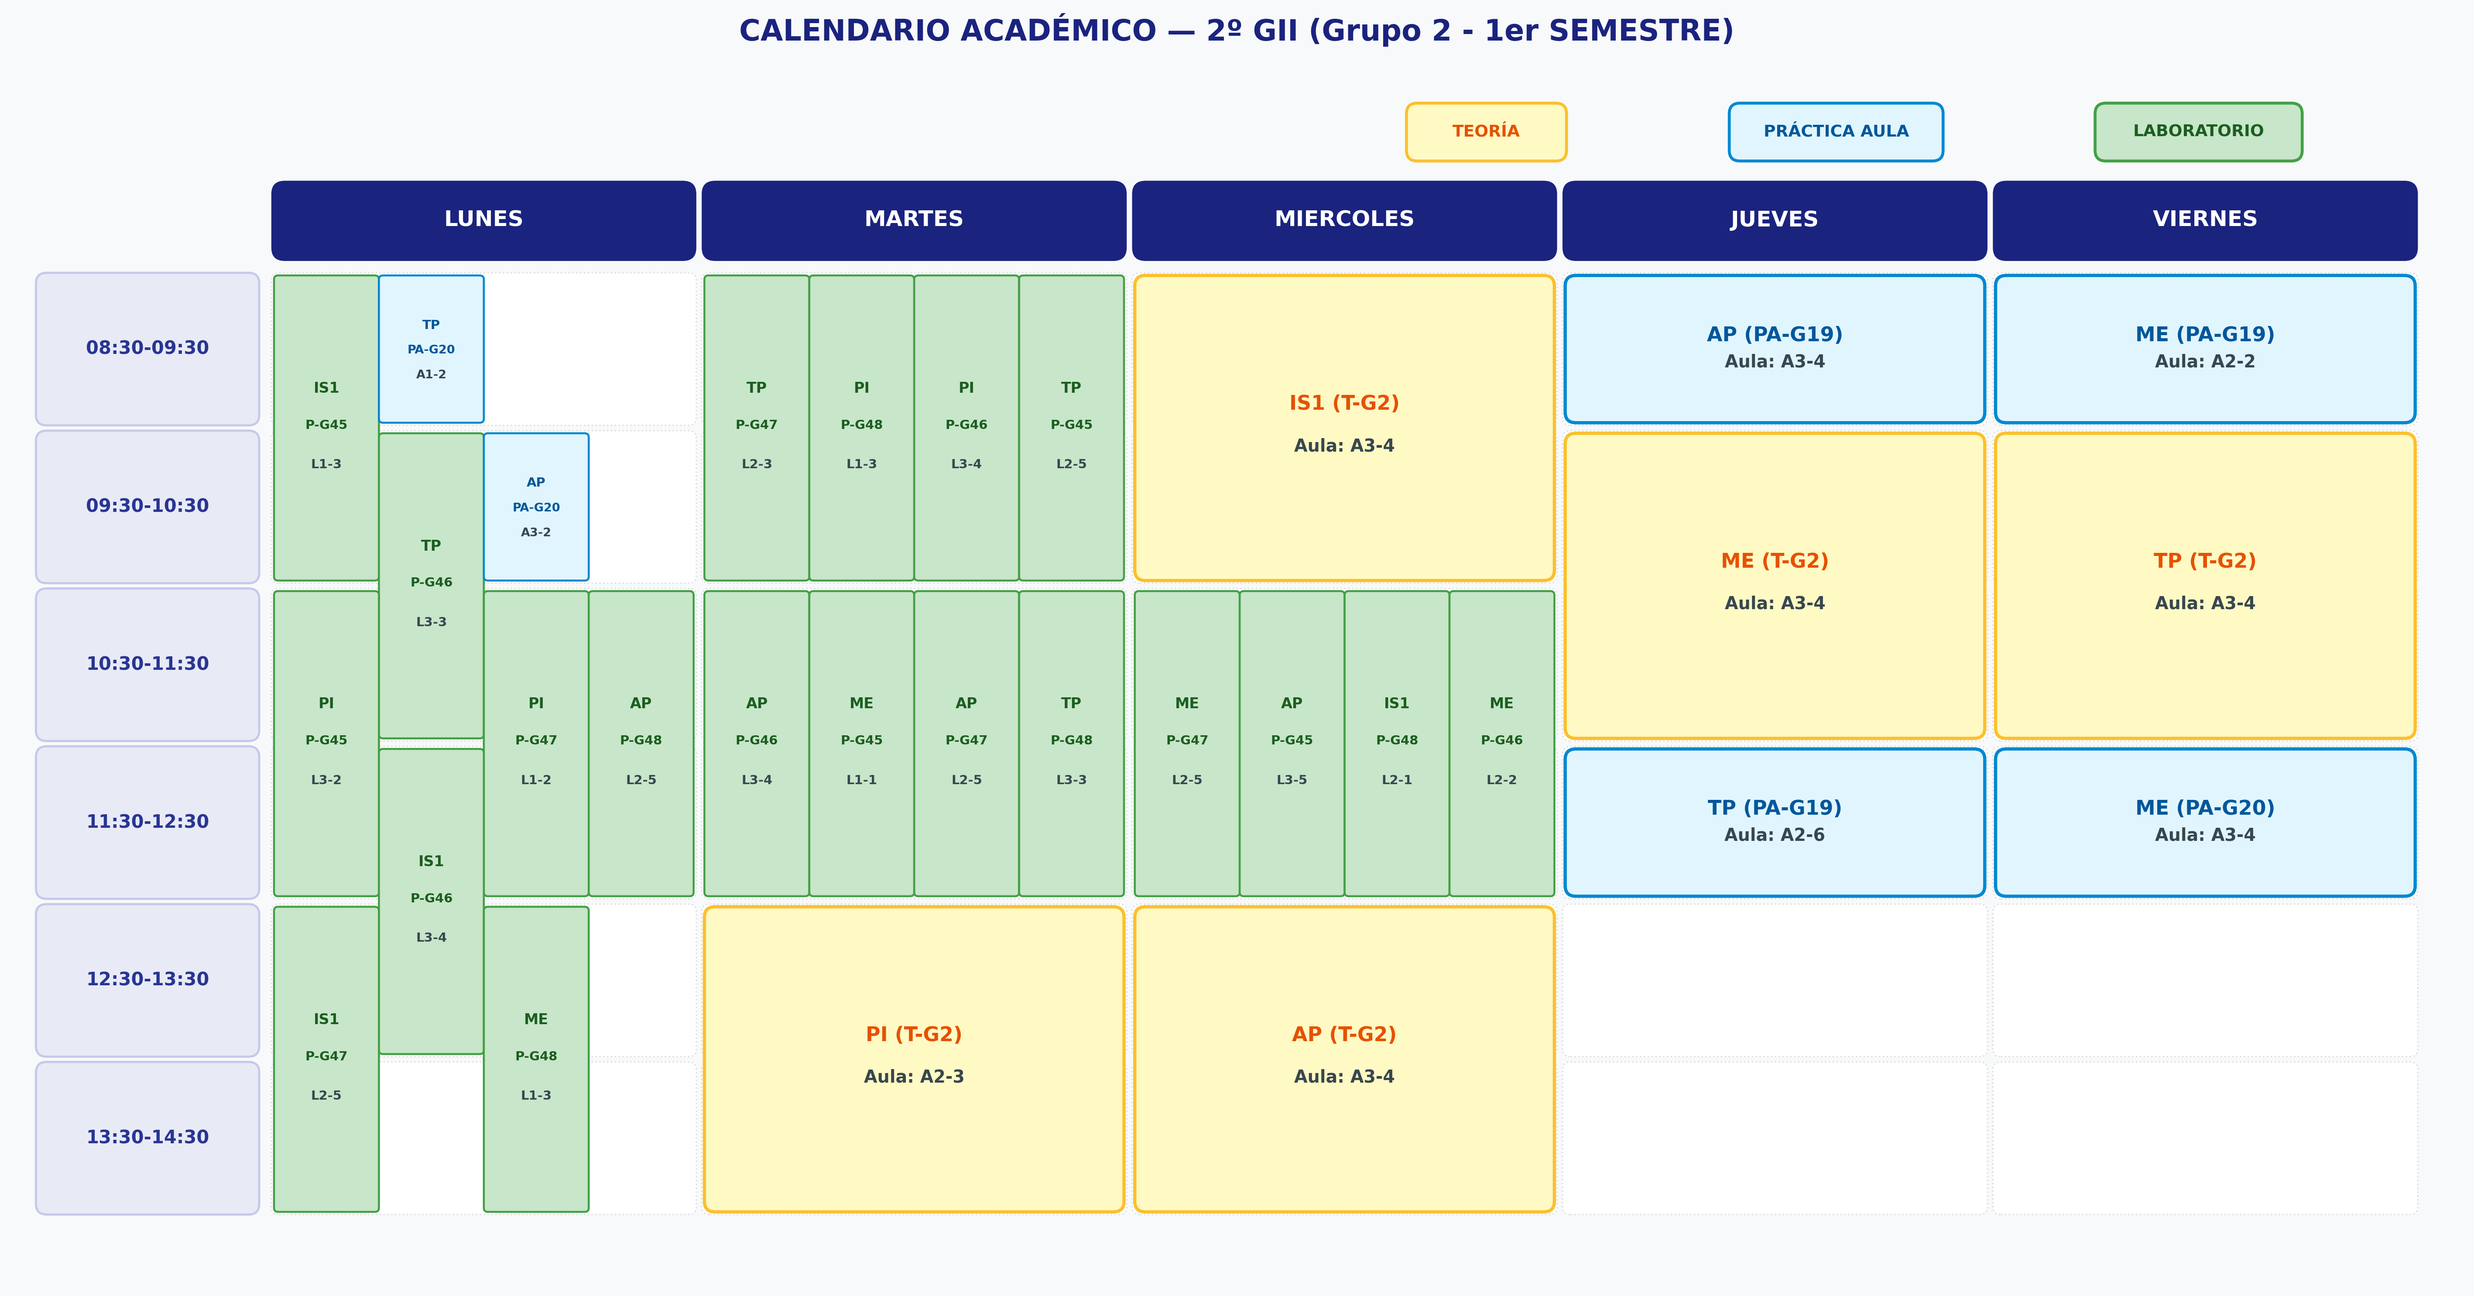
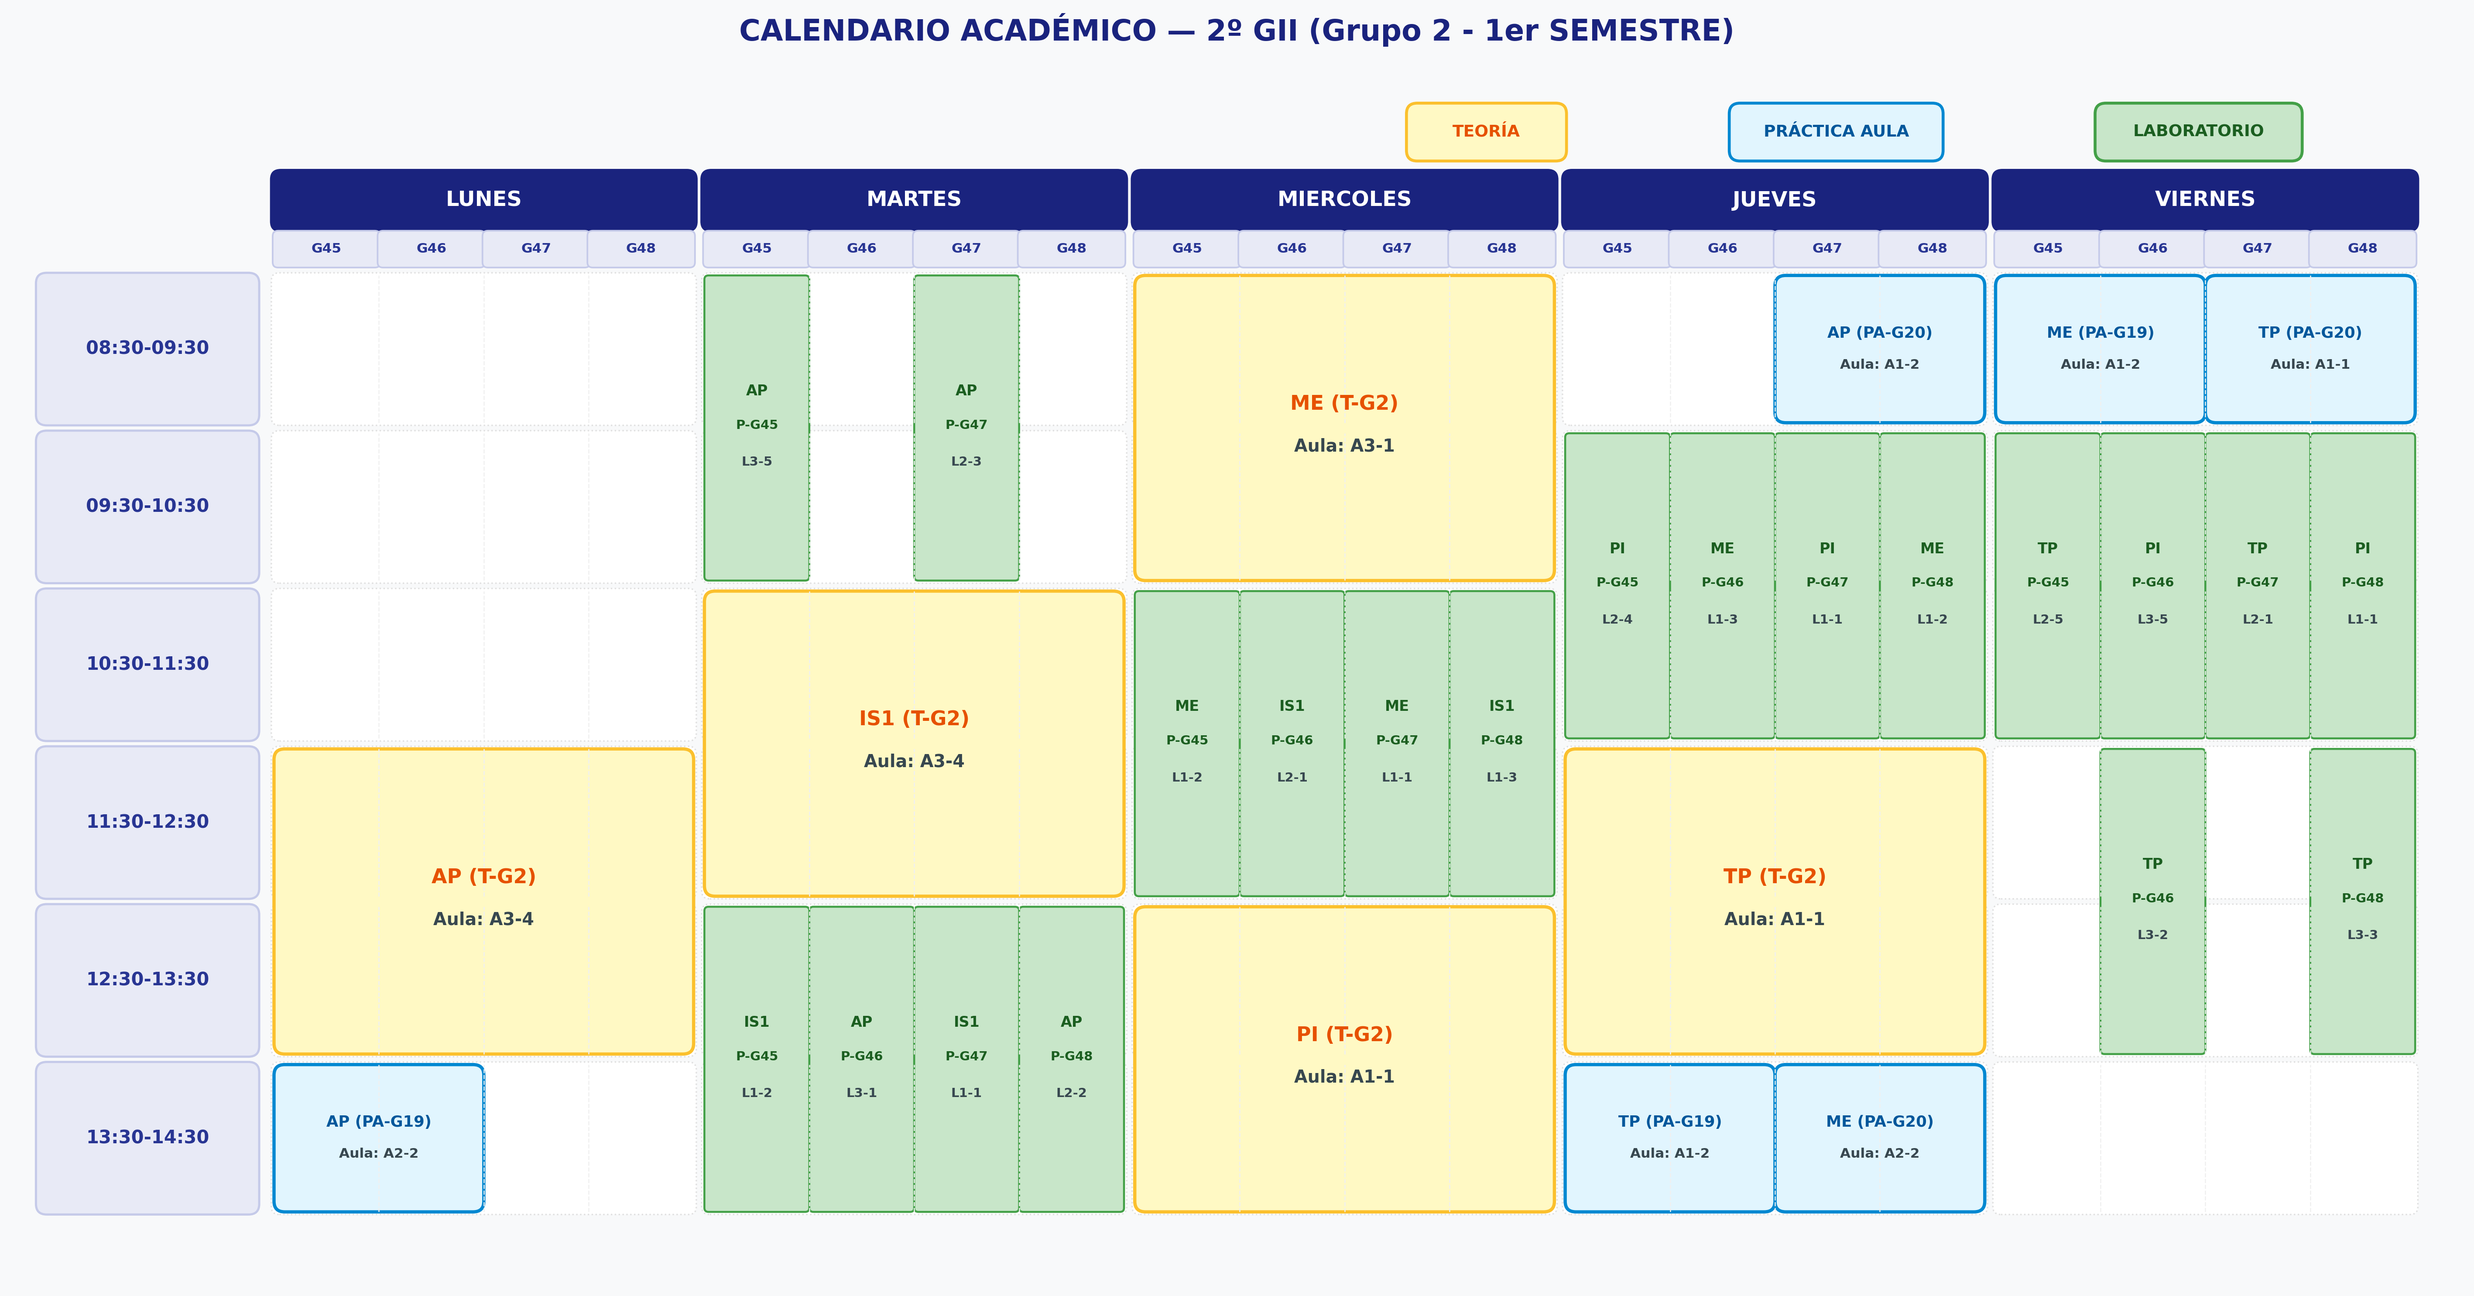
Implementar carriles fijos por subgrupo en visualizador con fusion horizontal para practicas de aula y teoria

diff --git a/src/visualizador.py b/src/visualizador.py
@@ -4,6 +4,7 @@ import subprocess
 import matplotlib.pyplot as plt
 import matplotlib.patches as patches
 import pandas as pd
+from restricciones import obtener_subgrupos_estudiantes
 
 def exportar_horario_png(df_resultado, ruta_salida="horario_3GII_1er.png", titulo=None, abrir_al_terminar=True):
     """
@@ -41,17 +42,56 @@ def exportar_horario_png(df_resultado, ruta_salida="horario_3GII_1er.png", titul
     y_offset = 0.5
     row_height = 1.2
 
-    # 1. Cabecera superior: Días
+    # Identificar subgrupos atómicos presentes en este horario
+    subgrupos_atomicos = set()
+    for _, r in df_resultado.iterrows():
+        t = str(r.get("Tipo", r.get("tipo", ""))).lower()
+        if "teor" not in t and "prob" not in t and "aula" not in t:
+            subgrupos_atomicos.add(str(r.get("Grupo", r.get("grupo", ""))).strip())
+
+    if not subgrupos_atomicos:
+        for _, r in df_resultado.iterrows():
+            subgrupos_atomicos.add(str(r.get("Grupo", r.get("grupo", ""))).strip())
+
+    subgrupos_ordenados = sorted(list(subgrupos_atomicos), key=lambda x: int(x) if x.isdigit() else x)
+    num_subgrupos = len(subgrupos_ordenados)
+    track_map = {sg: idx for idx, sg in enumerate(subgrupos_ordenados)}
+    w_tr = (col_width - 0.08) / max(1, num_subgrupos)
+
+    # 1. Cabecera superior: Días y Subgrupos
     for j, dia in enumerate(dias):
         x = x_offset + j * col_width
-        header_box = patches.FancyBboxPatch(
-            (x + 0.05, len(horas) * row_height + y_offset + 0.1), col_width - 0.1, 0.55,
-            boxstyle="round,pad=0.03,rounding_size=0.1",
-            facecolor="#1A237E", edgecolor="none"
-        )
-        ax.add_patch(header_box)
-        ax.text(x + col_width / 2, len(horas) * row_height + y_offset + 0.38, dia.upper(),
-                ha="center", va="center", color="white", fontsize=12, fontweight="bold")
+        if num_subgrupos > 1:
+            header_box = patches.FancyBboxPatch(
+                (x + 0.04, len(horas) * row_height + y_offset + 0.32), col_width - 0.08, 0.42,
+                boxstyle="round,pad=0.03,rounding_size=0.08",
+                facecolor="#1A237E", edgecolor="none"
+            )
+            ax.add_patch(header_box)
+            ax.text(x + col_width / 2, len(horas) * row_height + y_offset + 0.53, dia.upper(),
+                    ha="center", va="center", color="white", fontsize=11.5, fontweight="bold")
+
+            # Sub-cabeceras por subgrupo atómico
+            for t_idx, sg in enumerate(subgrupos_ordenados):
+                x_sub = x + 0.04 + t_idx * w_tr
+                sub_box = patches.FancyBboxPatch(
+                    (x_sub + 0.01, len(horas) * row_height + y_offset + 0.04), w_tr - 0.02, 0.24,
+                    boxstyle="round,pad=0.02,rounding_size=0.04",
+                    facecolor="#E8EAF6", edgecolor="#C5CAE9", linewidth=0.9
+                )
+                ax.add_patch(sub_box)
+                ax.text(x_sub + w_tr / 2, len(horas) * row_height + y_offset + 0.16,
+                        f"G{sg}" if len(sg) <= 2 else sg,
+                        ha="center", va="center", color="#283593", fontsize=7.5, fontweight="bold")
+        else:
+            header_box = patches.FancyBboxPatch(
+                (x + 0.05, len(horas) * row_height + y_offset + 0.1), col_width - 0.1, 0.55,
+                boxstyle="round,pad=0.03,rounding_size=0.1",
+                facecolor="#1A237E", edgecolor="none"
+            )
+            ax.add_patch(header_box)
+            ax.text(x + col_width / 2, len(horas) * row_height + y_offset + 0.38, dia.upper(),
+                    ha="center", va="center", color="white", fontsize=12, fontweight="bold")
 
     # 2. Cabecera lateral: Horas
     for i, hora in enumerate(horas):
@@ -76,72 +116,24 @@ def exportar_horario_png(df_resultado, ruta_salida="horario_3GII_1er.png", titul
                 facecolor="#FFFFFF", edgecolor="#E0E0E0", linewidth=0.8, linestyle=":"
             )
             ax.add_patch(bg_slot)
+            if num_subgrupos > 1:
+                for t_idx in range(1, num_subgrupos):
+                    x_sep = x + 0.04 + t_idx * w_tr
+                    ax.plot([x_sep, x_sep], [y + 0.04, y + row_height - 0.04],
+                            color="#F0F0F0", linestyle="--", linewidth=0.6)
 
-    # 4. Manejo de sesiones simultáneas (desdobles y solapes por carriles)
+    # 4. Asignación de posiciones basada en subgrupos atómicos fijos
     horas_map = {h: i for i, h in enumerate(horas)}
 
-    # Asignación de carriles (lanes) por día mediante coloreado de grafos de intervalos
-    sesiones_con_posicion = []
-    for dia in dias:
-        df_dia = df_resultado[df_resultado["Dia"] == dia].copy()
-        if df_dia.empty:
-            continue
-
-        eventos = df_dia.to_dict("records")
-        for ev in eventos:
-            ev["start_idx"] = horas_map[ev["Hora"]]
-            ev["duracion_num"] = int(str(ev["Duracion"]).replace("h", ""))
-            ev["end_idx"] = ev["start_idx"] + ev["duracion_num"]
-
-        # Grafo de solapes entre sesiones del día
-        adj = {i: [] for i in range(len(eventos))}
-        for i in range(len(eventos)):
-            for j in range(i + 1, len(eventos)):
-                if eventos[i]["start_idx"] < eventos[j]["end_idx"] and eventos[j]["start_idx"] < eventos[i]["end_idx"]:
-                    adj[i].append(j)
-                    adj[j].append(i)
-
-        # Encontrar componentes conexas (clusters de sesiones que solapan directa o indirectamente)
-        visitados = set()
-        for i in range(len(eventos)):
-            if i not in visitados:
-                cluster = []
-                cola = [i]
-                visitados.add(i)
-                while cola:
-                    curr = cola.pop(0)
-                    cluster.append(curr)
-                    for vecino in adj[curr]:
-                        if vecino not in visitados:
-                            visitados.add(vecino)
-                            cola.append(vecino)
-
-                # Coloreado voraz (greedy interval coloring) para asignar carriles sin colisión
-                c_eventos = [eventos[k] for k in cluster]
-                c_eventos.sort(key=lambda x: (x["start_idx"], -x["duracion_num"]))
-                lane_ends = []
-                for ev in c_eventos:
-                    asignado = False
-                    for l_id in range(len(lane_ends)):
-                        if lane_ends[l_id] <= ev["start_idx"]:
-                            lane_ends[l_id] = ev["end_idx"]
-                            ev["lane"] = l_id
-                            asignado = True
-                            break
-                    if not asignado:
-                        ev["lane"] = len(lane_ends)
-                        lane_ends.append(ev["end_idx"])
-
-                total_lanes = len(lane_ends)
-                for ev in c_eventos:
-                    ev["total_lanes"] = total_lanes
-                    sesiones_con_posicion.append(ev)
-
-    for ev in sesiones_con_posicion:
+    for _, ev in df_resultado.iterrows():
         dia = ev["Dia"]
-        row_idx = ev["start_idx"]
-        duracion = ev["duracion_num"]
+        hora = ev["Hora"]
+        duracion = int(str(ev["Duracion"]).replace("h", ""))
+        row_idx = horas_map[hora]
         asig = ev["Asignatura"]
+        aula = ev["Aula"]
+        col_idx = dias.index(dia)
+
         tipo_str = str(ev.get("Tipo", "")).strip().lower()
         if "teor" in tipo_str:
             tipo_clave = "teoria"
@@ -153,22 +145,27 @@ def exportar_horario_png(df_resultado, ruta_salida="horario_3GII_1er.png", titul
             tipo_clave = "practica"
             tipo_tag = "P"
         grupo = f"G{ev['Grupo']}"
-        aula = ev["Aula"]
 
-        col_idx = dias.index(dia)
-        total_lanes = ev["total_lanes"]
-        lane_idx = ev["lane"]
+        # Subgrupos atómicos a los que pertenece esta sesión
+        subs = obtener_subgrupos_estudiantes(ev, df_clases=df_resultado)
+        tracks = [track_map[g] for g in subs if g in track_map]
 
-        w_box = (col_width - 0.08) / total_lanes
-        x_box = x_offset + col_idx * col_width + 0.04 + lane_idx * w_box
+        if not tracks or num_subgrupos <= 1:
+            min_t = 0
+            span = max(1, num_subgrupos)
+        else:
+            min_t = min(tracks)
+            span = max(tracks) - min_t + 1
+
+        x_box = x_offset + col_idx * col_width + 0.04 + min_t * w_tr
+        w_box = span * w_tr
 
         h_box = duracion * row_height - 0.08
         y_box = (len(horas) - row_idx - duracion) * row_height + y_offset + 0.04
 
         estilo = estilo_tipo[tipo_clave]
-
-        rounding = 0.08 if total_lanes <= 2 else 0.03
-        lwidth = 1.8 if total_lanes <= 2 else 1.1
+        rounding = 0.08 if span >= 2 else 0.03
+        lwidth = 1.8 if span >= 2 else 1.1
 
         tarjeta = patches.FancyBboxPatch(
             (x_box + 0.02, y_box + 0.02), w_box - 0.04, h_box - 0.04,
@@ -180,19 +177,39 @@ def exportar_horario_png(df_resultado, ruta_salida="horario_3GII_1er.png", titul
         cx = x_box + w_box / 2
         cy = y_box + h_box / 2
 
-        # Tipografía responsiva: vertical en desdobles de 3 o más para no amontonar texto
-        if total_lanes <= 2:
+        # Tipografía responsiva según el ancho disponible (span)
+        if span >= 3:
+            # Teoría o clases que abarcan casi todo el día: formato espacioso a 2 líneas
+            f_asig = 11.0 if span == num_subgrupos else 10.0
+            f_sub = 9.5 if span == num_subgrupos else 8.5
             ax.text(cx, cy + (0.18 if duracion > 1 else 0.10), f"{asig} ({tipo_tag}-{grupo})",
                     ha="center", va="center", color=estilo["text"],
-                    fontsize=11 if total_lanes == 1 else 9.5, fontweight="bold")
-
+                    fontsize=f_asig, fontweight="bold")
             ax.text(cx, cy - (0.14 if duracion > 1 else 0.10), f"Aula: {aula}",
                     ha="center", va="center", color="#37474F",
-                    fontsize=9.5 if total_lanes == 1 else 8.5, fontweight="bold")
+                    fontsize=f_sub, fontweight="bold")
+        elif span == 2:
+            # Práctica de aula (2 subgrupos, ej: G19 sobre 45-46 o G20 sobre 47-48)
+            f_asig = 9.0
+            f_sub = 8.0
+            if duracion >= 2:
+                ax.text(cx, cy + 0.20, f"{asig} ({tipo_tag}-{grupo})",
+                        ha="center", va="center", color=estilo["text"],
+                        fontsize=f_asig, fontweight="bold")
+                ax.text(cx, cy - 0.16, f"Aula: {aula}",
+                        ha="center", va="center", color="#37474F",
+                        fontsize=f_sub, fontweight="bold")
+            else:
+                ax.text(cx, cy + 0.12, f"{asig} ({tipo_tag}-{grupo})",
+                        ha="center", va="center", color=estilo["text"],
+                        fontsize=f_asig - 0.5, fontweight="bold")
+                ax.text(cx, cy - 0.12, f"Aula: {aula}",
+                        ha="center", va="center", color="#37474F",
+                        fontsize=f_sub - 0.5, fontweight="bold")
         else:
-            # Desdoble amplio (3 a 5 subgrupos simultáneos): formato compacto en 3 líneas
-            f_asig = 9.0 if total_lanes == 3 else 8.0
-            f_sub = 8.0 if total_lanes == 3 else 7.0
+            # Laboratorio individual (carril estrecho de 1 subgrupo): formato compacto en 3 líneas
+            f_asig = 8.0
+            f_sub = 7.0
             if duracion >= 3:
                 ax.text(cx, cy + 0.42, asig, ha="center", va="center",
                         color=estilo["text"], fontsize=f_asig, fontweight="bold")
@@ -201,11 +218,11 @@ def exportar_horario_png(df_resultado, ruta_salida="horario_3GII_1er.png", titul
                 ax.text(cx, cy - 0.38, aula, ha="center", va="center",
                         color="#37474F", fontsize=f_sub, fontweight="bold")
             elif duracion == 2:
-                ax.text(cx, cy + 0.30, asig, ha="center", va="center",
+                ax.text(cx, cy + 0.28, asig, ha="center", va="center",
                         color=estilo["text"], fontsize=f_asig, fontweight="bold")
                 ax.text(cx, cy + 0.02, f"{tipo_tag}-{grupo}", ha="center", va="center",
                         color=estilo["text"], fontsize=f_sub, fontweight="bold")
-                ax.text(cx, cy - 0.28, aula, ha="center", va="center",
+                ax.text(cx, cy - 0.26, aula, ha="center", va="center",
                         color="#37474F", fontsize=f_sub, fontweight="bold")
             else:
                 ax.text(cx, cy + 0.18, asig, ha="center", va="center",

diff --git a/src/restricciones.py b/src/restricciones.py
@@ -28,8 +28,8 @@ def obtener_subgrupos_estudiantes(row, df_clases=None):
         if val:
             return set(val.replace(";", ",").split(","))
 
-    tipo_str = str(row.get("tipo", "")).strip().lower()
-    grupo_str = str(row.get("grupo", "")).strip()
+    tipo_str = str(row.get("tipo", row.get("Tipo", ""))).strip().lower()
+    grupo_str = str(row.get("grupo", row.get("Grupo", ""))).strip()
 
     # Mapeo oficial de prácticas de aula en la EII
     mapeo_aula = {
@@ -44,19 +44,25 @@ def obtener_subgrupos_estudiantes(row, df_clases=None):
 
     if "teor" in tipo_str:
         if df_clases is not None:
-            c = row.get("curso")
-            gp = row.get("grupo_principal")
-            filtro = df_clases[~df_clases["tipo"].astype(str).str.lower().str.contains("teor")].copy()
-            if c is not None and "curso" in df_clases.columns:
-                filtro = filtro[filtro["curso"] == c]
-            if gp is not None and "grupo_principal" in df_clases.columns:
-                filtro = filtro[filtro["grupo_principal"] == gp]
+            c = row.get("curso") if "curso" in row else row.get("Curso")
+            gp = row.get("grupo_principal") if "grupo_principal" in row else row.get("GrupoPrincipal")
+            
+            tipo_col = "tipo" if "tipo" in df_clases.columns else "Tipo"
+            grupo_col = "grupo" if "grupo" in df_clases.columns else "Grupo"
+            curso_col = "curso" if "curso" in df_clases.columns else "Curso"
+            gp_col = "grupo_principal" if "grupo_principal" in df_clases.columns else "GrupoPrincipal"
+
+            filtro = df_clases[~df_clases[tipo_col].astype(str).str.lower().str.contains("teor")].copy()
+            if c is not None and curso_col in df_clases.columns:
+                filtro = filtro[filtro[curso_col] == c]
+            if gp is not None and gp_col in df_clases.columns:
+                filtro = filtro[filtro[gp_col] == gp]
 
             subgs = set()
             for _, r in filtro.iterrows():
-                t = str(r.get("tipo", "")).lower()
+                t = str(r.get(tipo_col, "")).lower()
                 if "prob" not in t and "aula" not in t:
-                    subgs.add(str(r["grupo"]).strip())
+                    subgs.add(str(r[grupo_col]).strip())
             if subgs:
                 return subgs
 
